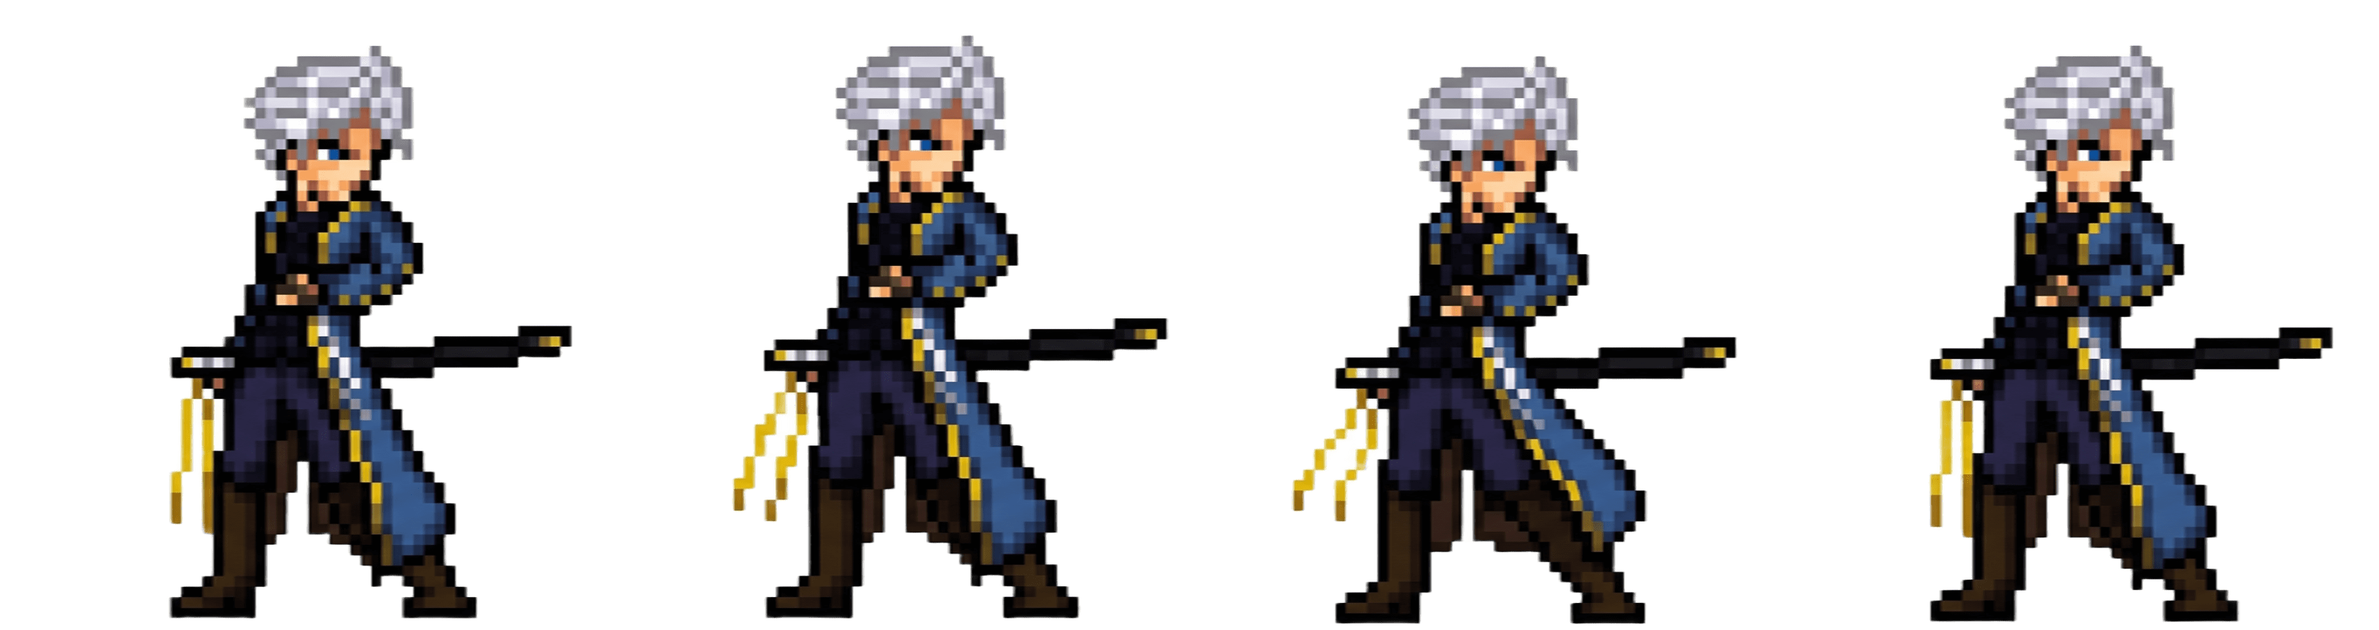
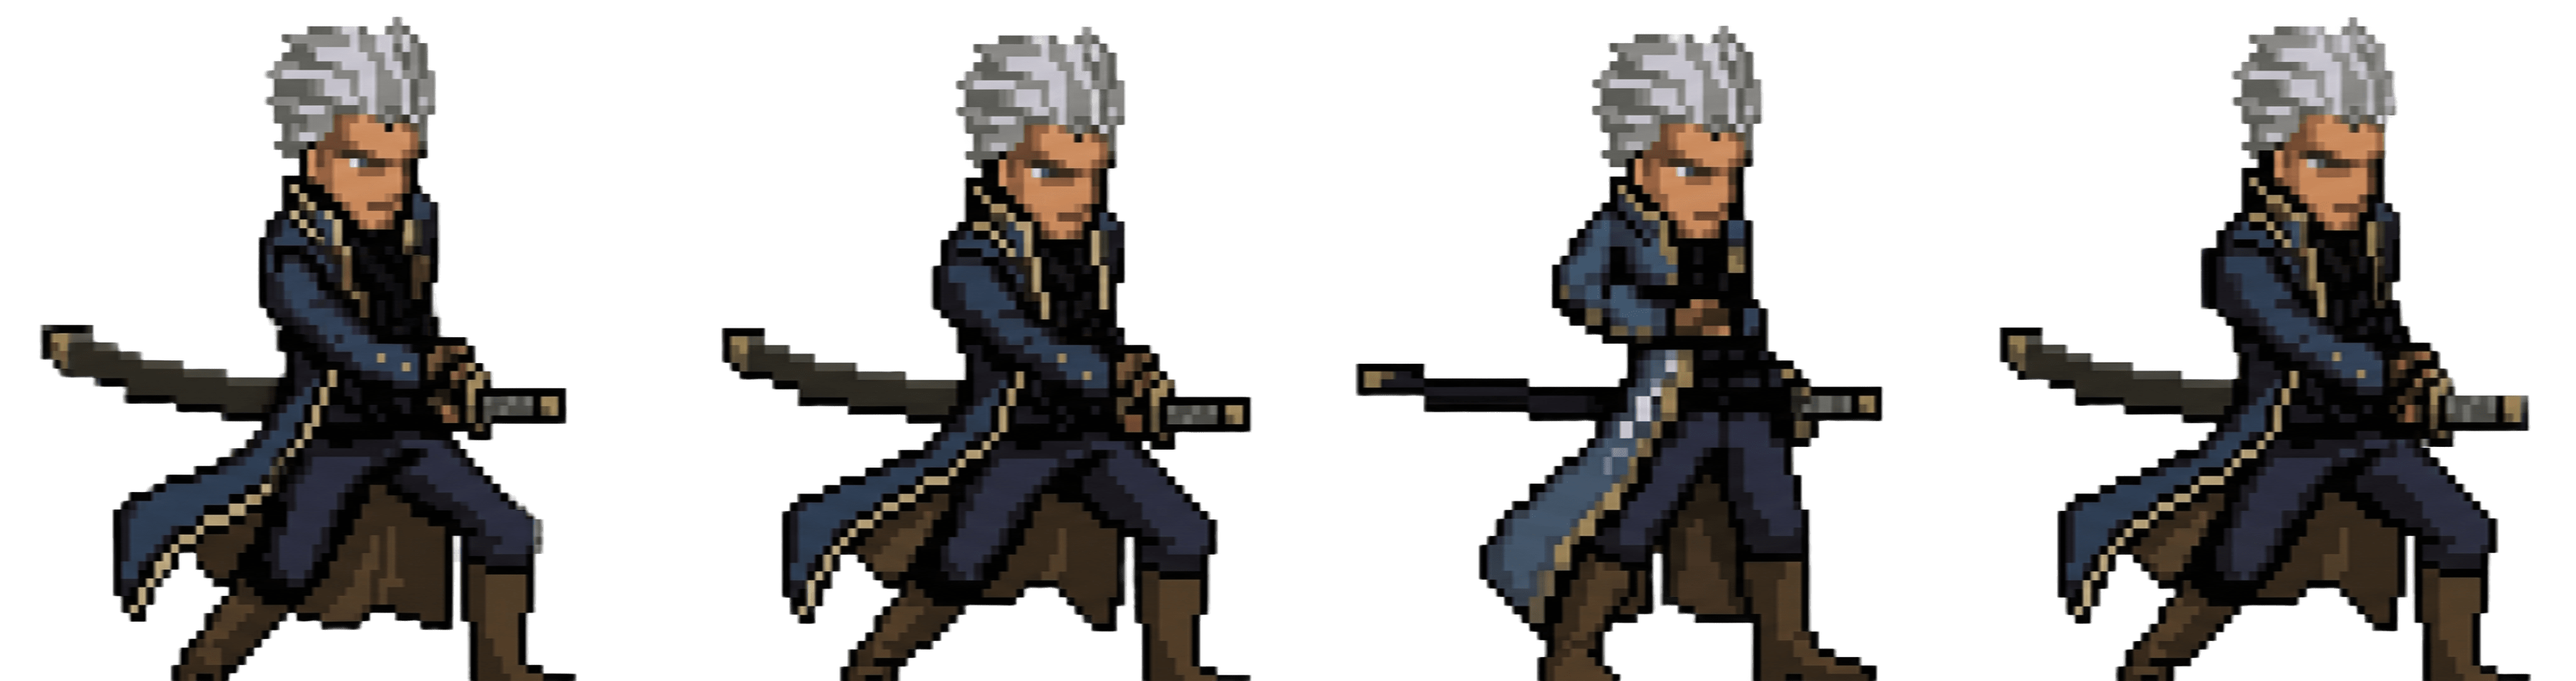
version 0.0.6 new animation and player jump

diff --git a/Boss1.py b/Boss1.py
@@ -23,14 +23,14 @@ class Vergil(pygame.sprite.Sprite):
         self.is_cooldown = False
 
         self.animator = AnimatedSprite()
-        self.animator.load_animation("idle", "asset/Vergil/vergil_idle.png", 4, 0.12)
+        self.animator.load_animation("idle", "asset/Vergil/vergil_idle.png", 4, 0.11)
         self.animator.load_animation("Run", "asset/Vergil/vergil_run.png", 6, 0.12)
         self.animator.load_animation("Attack1", "asset/Vergil/vergil_attack1.png", 4, 0.12)
         
         self.animator.play("idle")
         
         self.image = self.animator.update_get_image(self.animation_speed["idle"])
-        self.hitbox = pygame.Rect(320, 240, 90, 120)
+        self.hitbox = pygame.Rect(320, 240, 85, 110)
         self.rect = self.hitbox.copy()
 
     def update(self):
@@ -44,8 +44,10 @@ class Vergil(pygame.sprite.Sprite):
         current_time = pygame.time.get_ticks()
         distance = abs(boss_x - player_x)       
 
+        current_fspeed = self.animation_speed[new_state]
+        
         if self.is_cooldown:
-            if current_time - self.last_attack_time > 700:
+            if current_time - self.last_attack_time > 450:
                 self.is_cooldown = False
 
         elif self.is_attacking:
@@ -67,24 +69,25 @@ class Vergil(pygame.sprite.Sprite):
 
         if self.is_attacking:
             new_state = "Attack1"
-            if int(self.animator.current_frames) == 3 and self.animator.current_state == "Attack1":
+            if self.animator.current_frames + current_fspeed >= 4 and self.animator.current_state == "Attack1":
                 self.is_attacking = False
                 self.is_cooldown = True
                 self.last_attack_time = current_time
+                new_state = "idle"
         elif self.is_moving:
             new_state = "Run"
 
-        current_fspeed = self.animation_speed[new_state]
         self.animator.play(new_state)
         self.image = self.animator.update_get_image(current_fspeed)
 
         if self.flip:
-            self.image = pygame.transform.flip(self.image, True, False)
+            self.image = pygame.transform.flip(self.image, True, False).convert_alpha()
 
         if current_time - self.last_hit_time < 300:
             if (current_time // 75) % 2 == 0:
                 self.image = self.image.copy()
                 self.image.fill((255, 0, 0), special_flags=pygame.BLEND_RGB_ADD)
+        
         self.rect = self.image.get_rect()
         self.rect.midbottom = self.hitbox.midbottom
 

diff --git a/Player.py b/Player.py
@@ -9,6 +9,9 @@ class Player(pygame.sprite.Sprite):
         self.player_speed = 5
         self.player_hp = 100
         self.player_stamina = 100
+        self.player_jump_power = 4
+        self.velocity_y = 0
+        self.gravity = 4
 
         self.animation_speed = {
             "Run": 0.2,
@@ -18,6 +21,8 @@ class Player(pygame.sprite.Sprite):
 
         self.is_attacking = False
         self.flip = False
+        self.is_jumping = False
+
         self.animator = AnimatedSprite()
         self.animator.load_animation("idle", "asset/Legacy-Fantasy - High Forest 2.3/Character/Idle/Idle-Sheet.png", 4, 1.0)
         self.animator.load_animation("Run", "asset/Legacy-Fantasy - High Forest 2.3/Character/Run/Run-Sheet.png", 8, 1.0)
@@ -49,8 +54,7 @@ class Player(pygame.sprite.Sprite):
             for enemy in enemies_group:
                 if attack_rect.colliderect(enemy.hitbox):
                     enemy.be_attacked()
-        
-
+            
 
     def update(self):
 
@@ -60,19 +64,30 @@ class Player(pygame.sprite.Sprite):
 
         new_state = "idle"
 
-        if keys[pygame.K_w] or keys[pygame.K_s] or keys[pygame.K_a] or keys[pygame.K_d]:
+        if keys[pygame.K_w]:
+            self.velocity_y = - self.player_jump_power
             is_moving = True
-            if keys[pygame.K_w]: self.rect.y -= self.player_speed
-            if keys[pygame.K_s]: self.rect.y += self.player_speed
+            self.is_jumping = True
 
-            if keys[pygame.K_a]:
-                self.rect.x -= self.player_speed
-                self.flip = True
-            if keys[pygame.K_d]:
-                self.rect.x += self.player_speed
-                self.flip = False
-       
+        if keys[pygame.K_s]:
+            self.rect.y += self.player_speed
+            is_moving = True
 
+        if keys[pygame.K_a]:
+            self.rect.x -= self.player_speed
+            is_moving = True
+            self.flip = True
+
+        if keys[pygame.K_d]:
+            self.rect.x += self.player_speed
+            is_moving = True
+            self.flip = False
+
+        if self.is_jumping:
+            self.rect.y += self.velocity_y
+            self.velocity_y += self.gravity / 60
+        
+        
         if self.is_attacking:
             new_state = "Attack"
             if self.animator.current_frames == 0 and self.animator.current_state == "Attack":

diff --git a/Animator.py b/Animator.py
@@ -27,7 +27,7 @@ class AnimatedSprite:
             if scale_ratio != 1:
                 new_width = int(frame_width * scale_ratio)
                 new_height = int(total_height * scale_ratio)
-                frame_subsurface = pygame.transform.scale(frame_subsurface, (new_width, new_height))
+                frame_subsurface = pygame.transform.scale(frame_subsurface, (new_width, new_height)).convert_alpha()
 
             frames.append(frame_subsurface)
 
